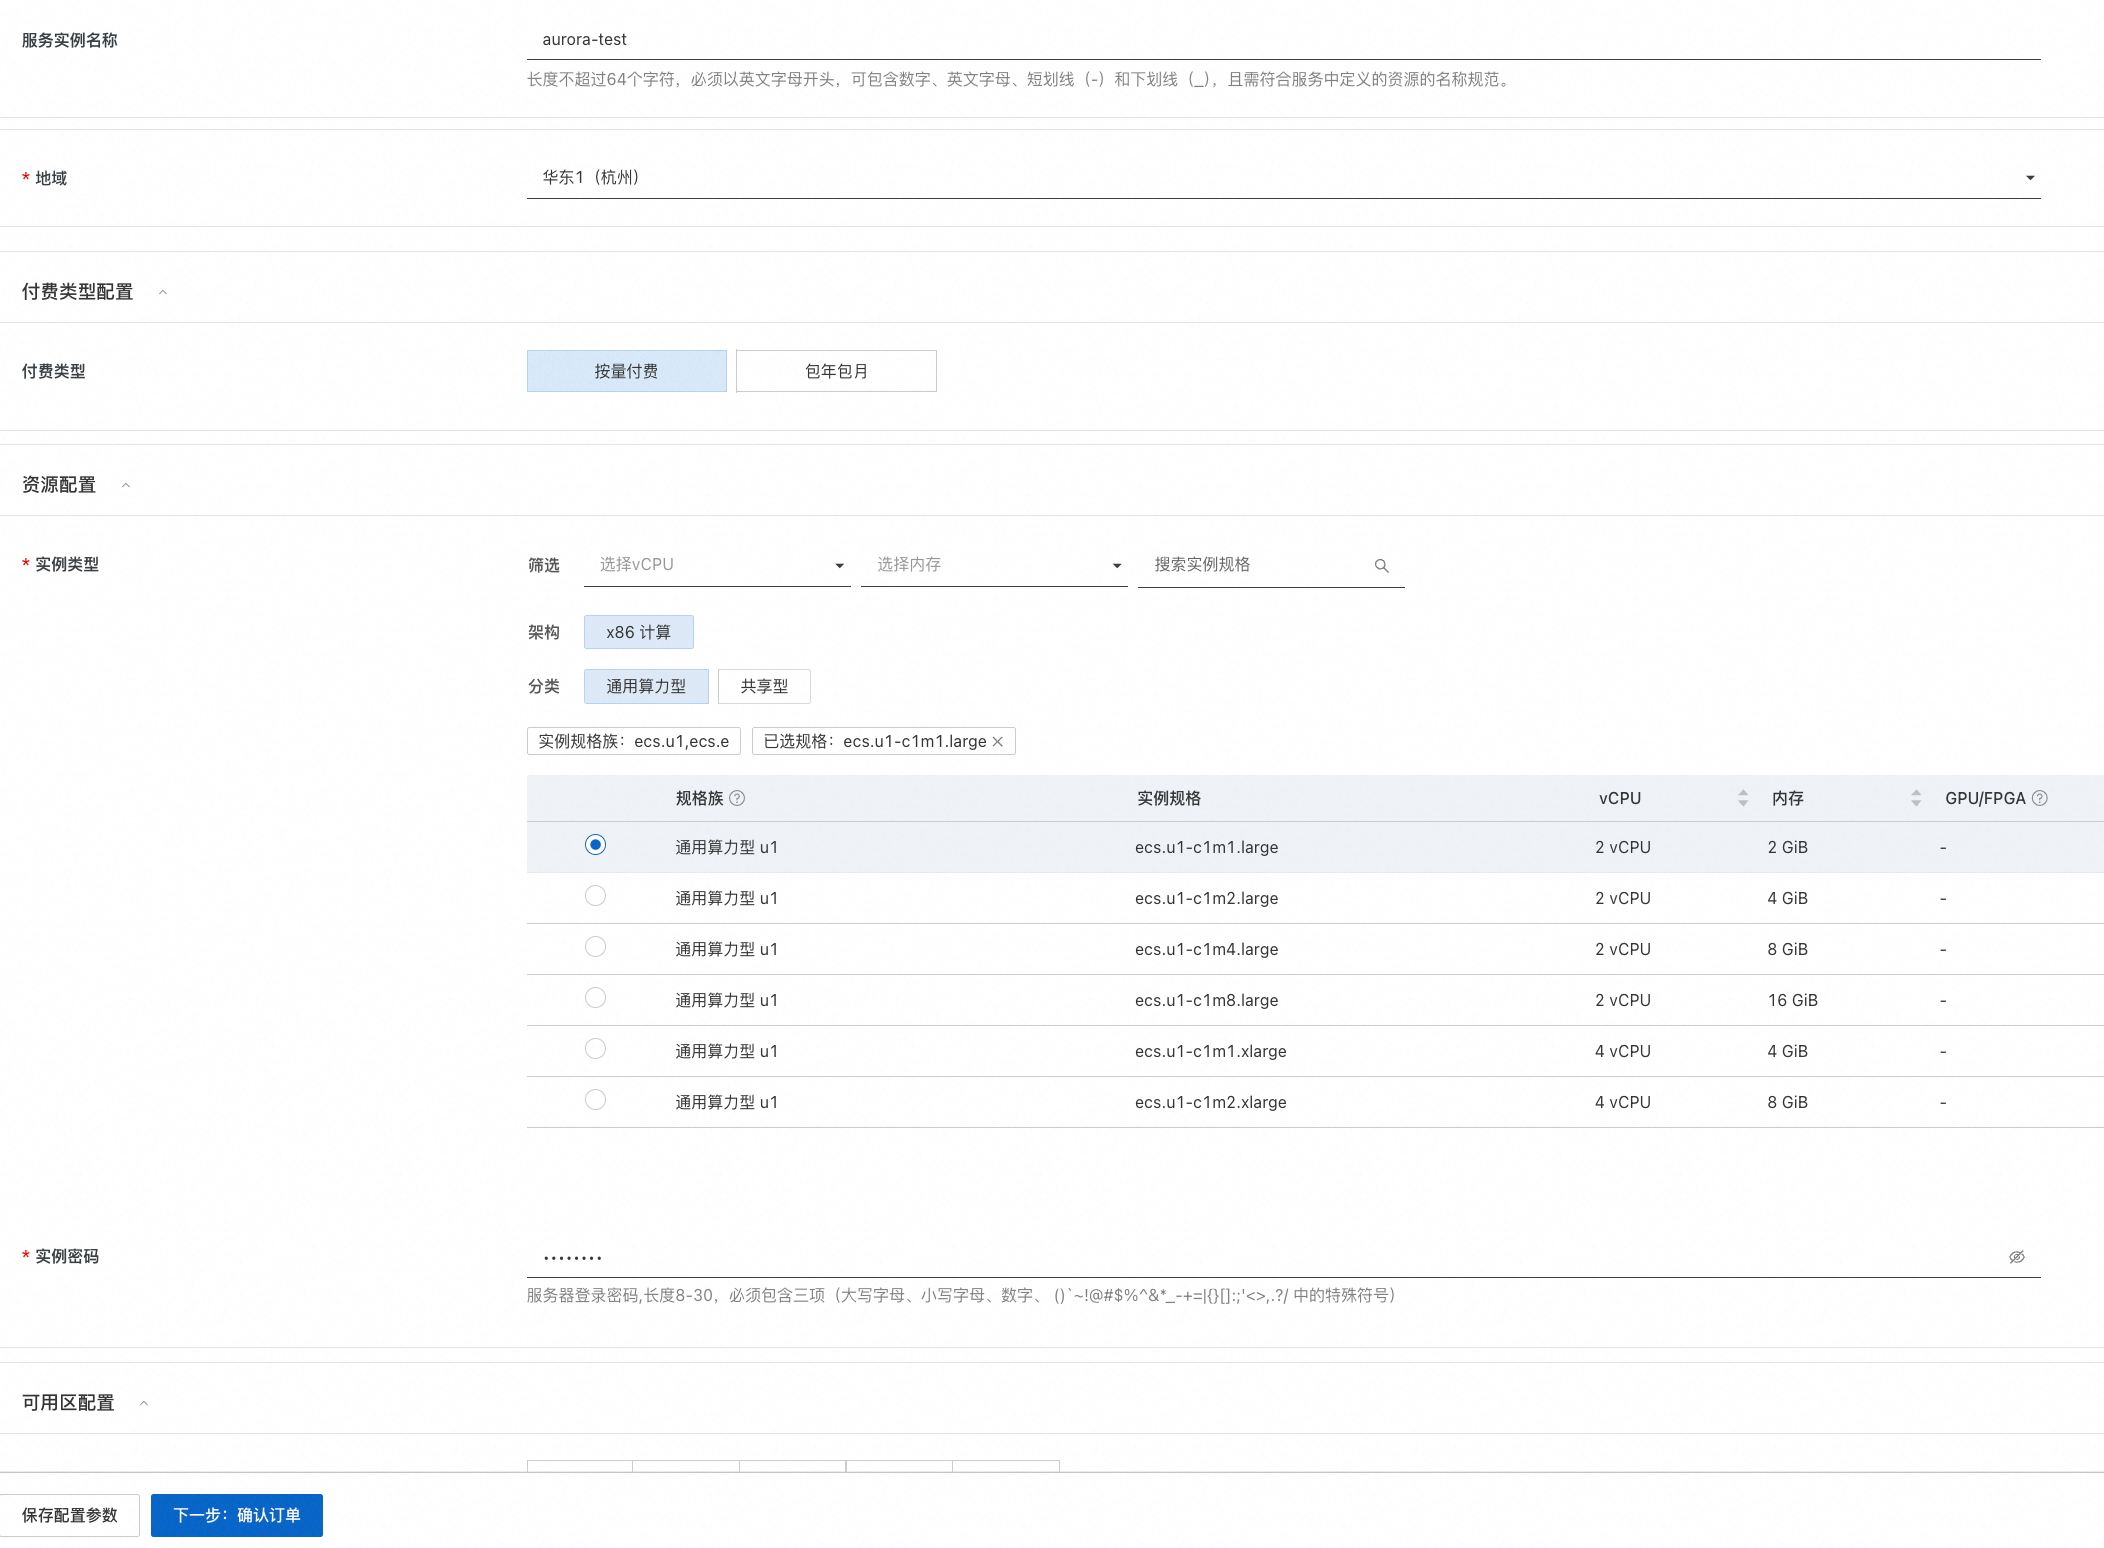
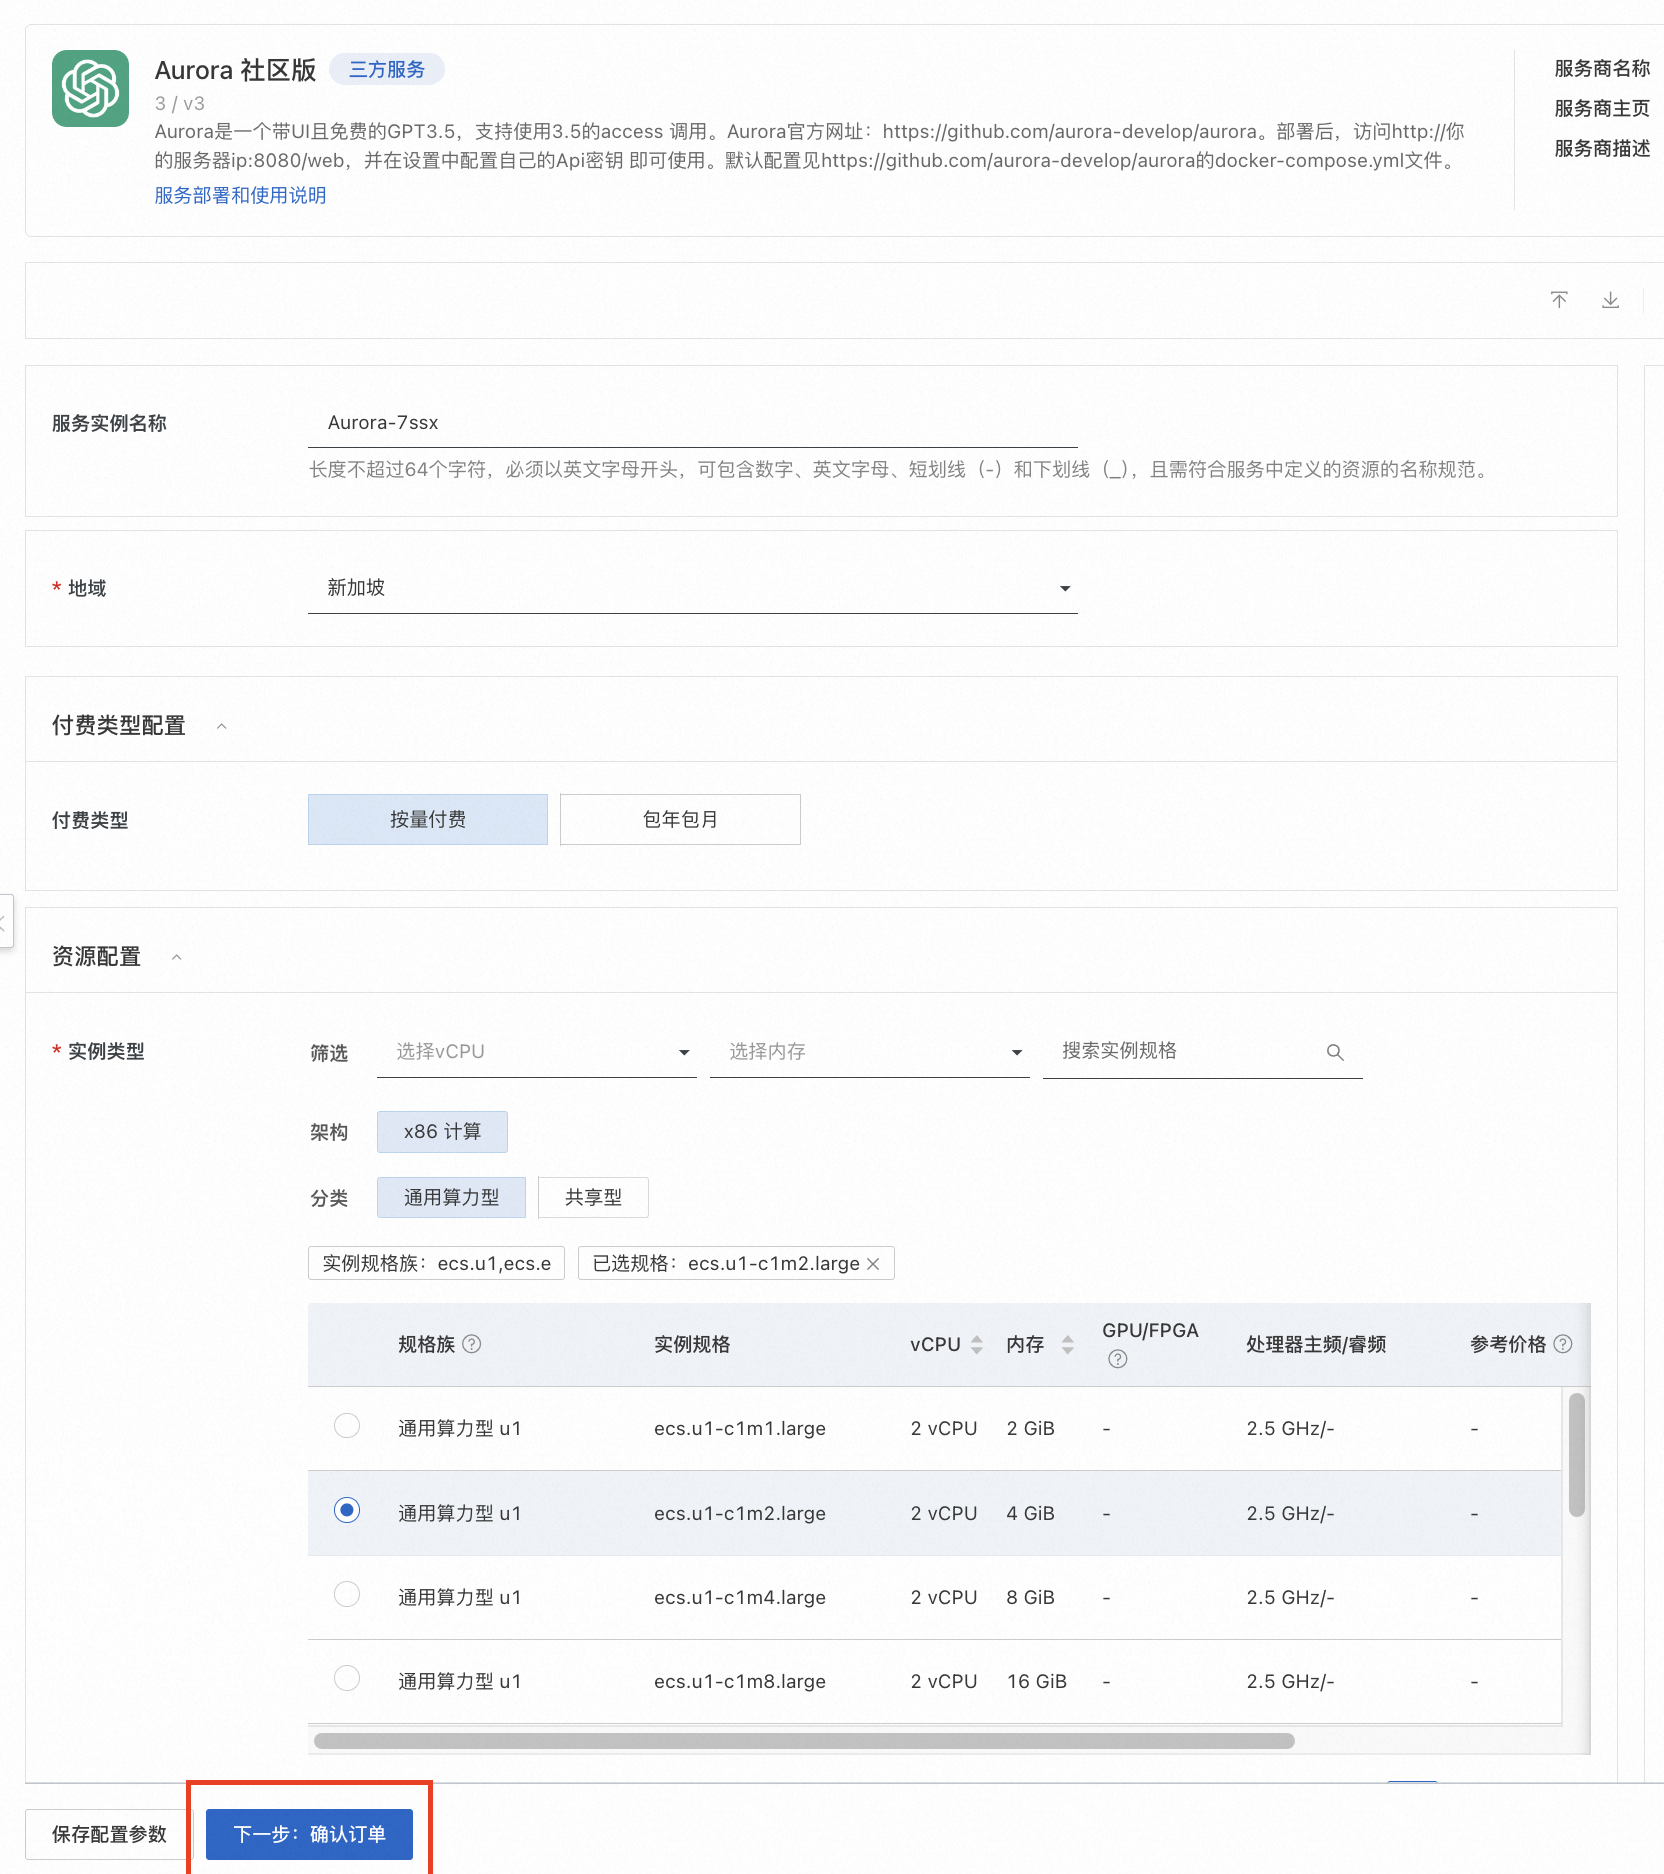
feature:通过docker-compose快速将aurora部署成计算巢服务，更新服务文档

diff --git a/docs/index.md b/docs/index.md
@@ -5,7 +5,11 @@
 
 ## 概述
 
-Aurora是一个带UI且免费的GPT3.5，支持使用3.5的access调用。Aurora官方网址：https://github.com/aurora-develop/aurora。部署后，访问http://你的服务器ip:8080/web，并在设置中配置自己的Api密钥 即可使用。默认配置见https://github.com/aurora-develop/aurora的docker-compose.yml文件。
+ChatGPT是美国人工智能研究实验室OpenAI在2022年11月30日推出的一款人工智能技术驱动的语言模型应用。由于OpenAI的国际背景，相比国内的多款大模型，ChatGPT在处理英文、跨文化信息时具有优势，能够更好地理解和生成不同语言和文化背景下的内容。
+
+Aurora是一个带UI且免费的GPT私人聊天助手，您可通过Aurora，在简洁的UI配置下访问GPT，快速打造您专属的AI助手。专属AI助手具体不限流，响应速度快，模型种类多且切换方便的显著优势。Aurora官方网址：https://github.com/aurora-develop/aurora 。
+
+阿里云计算巢已将Aurora打包为SaaS应用，您无需下载代码或安装复杂依赖，也无需连接国外VPN，仅需填写5个参数并等待5分钟，即可通过国内网络快速搭建私人聊天助手。
 
 ## 前提条件
 
@@ -46,21 +50,28 @@ Aurora社区版在计算巢部署的费用主要涉及：
 
 ## 部署流程
 1. 访问计算巢Aurora社区版[部署链接](https://computenest.console.aliyun.com/service/instance/create/default?type=user&ServiceName=Aurora%20%E7%A4%BE%E5%8C%BA%E7%89%88)
-，按提示填写部署参数：
-    ![image.png](2.png)
+   ，按提示填写部署参数。其中，地域选择新加坡（国内地域无法访问GPT模型），付费类型选择按量付费，可用区配置选择任意可用区ID与新建专有网络，其他部分保持默认值即可。
+   ![image.png](2.png)
+   ![image.png](8.png)
 
 2. 参数填写完成，确认参数后点击**下一步：确认订单**。
    ![image.png](3.png)
 
 3. 确认订单完成后同意服务协议，可以看到询价明细，点击**立即创建**
    进入部署阶段。
-    ![image.png](4.png)
+   ![image.png](4.png)
+4. 提交成功后，点击**去列表查看**。等待部署完成，预计5分钟左右。
+   ![image.png](11.png)
+   ![image.png](12.png)
 
-4. 等待部署完成后就可以开始使用服务，进入服务实例详情点击ServiceAddress链接。
-    ![image.png](5.png)
+5. 等待部署完成后就可以开始使用服务，进入服务实例详情点击ServiceAddress链接。
+   ![image.png](5.png)
 
-5. 配置自己的OpenAI Api密钥，即完成自己建站使用GPT3.5。
-    ![image.png](6.png)
+6. 配置自己的OpenAI Api密钥，即可开始与你的GPT私人聊天助手进行对话。
+   ![image.png](6.png)
 
-6. 开始使用Aurora
-    ![image.png](7.png)
+7. 在右上角可以选择使用的GPT版本，支持切换GPT-3.5，4，4o等常用版本，并支持自定义角色性格、回答质量、回复速度和是否允许长回复等关键设定。
+   ![image.png](9.png)
+
+8. 开始使用Aurora
+   ![image.png](7.png)
